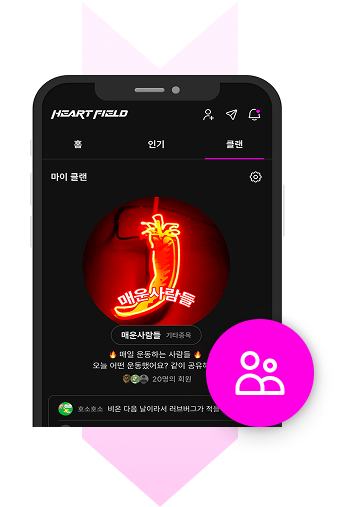
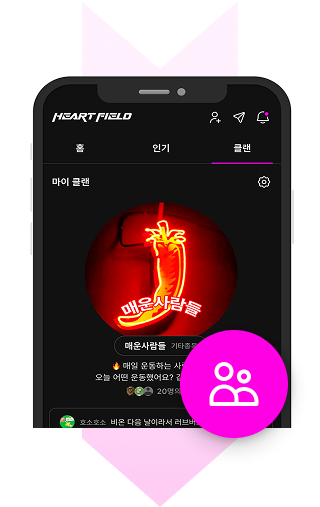
반응형 작업 완료 06

diff --git a/styles.css b/styles.css
@@ -2054,6 +2054,11 @@ body {
         padding: 0.8rem 1rem;
     }
     
+    .hamburger {
+        width:22px;
+        margin:2px 0;
+    }
+    
     .logo-img {
         max-width: 120px;
     }
